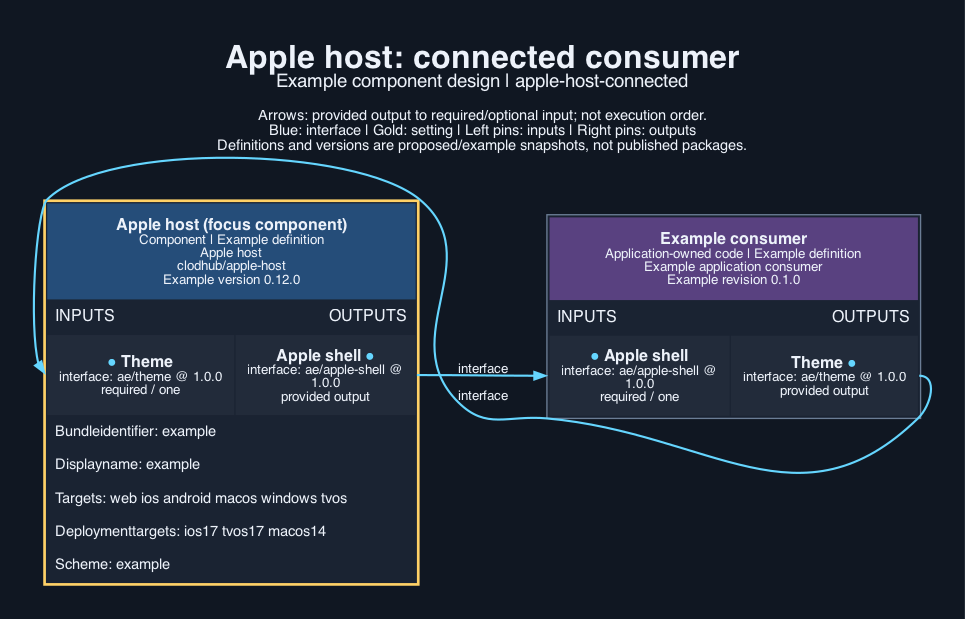
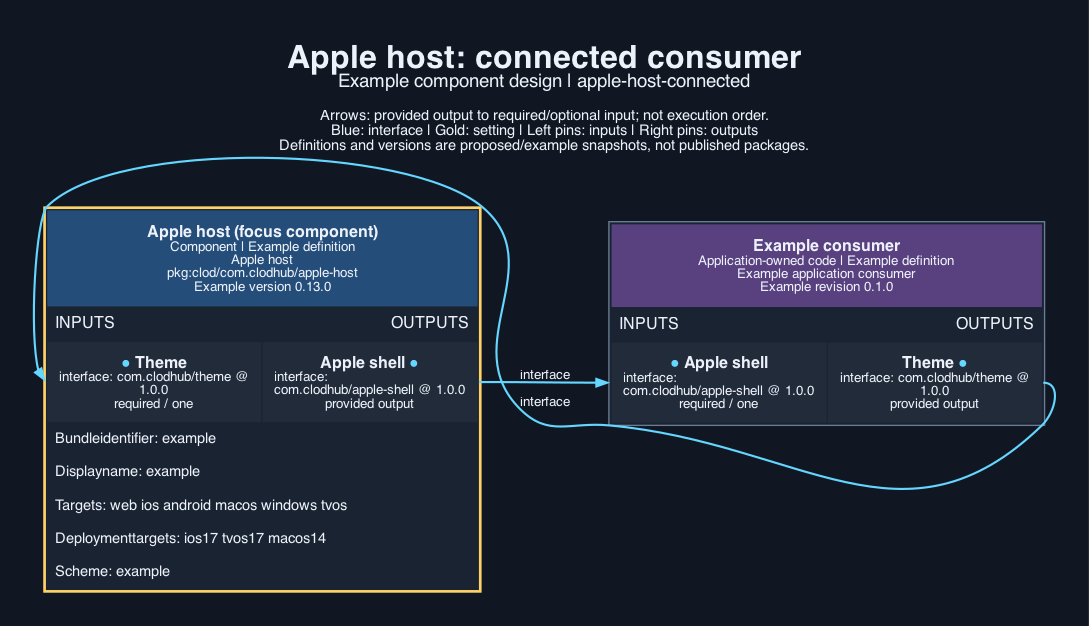
apple-host 0.13.0: package URL names, clod, com.clodhub interface types

diff --git a/tests/render.test.ts b/tests/render.test.ts
@@ -171,7 +171,7 @@ test("consumer writes the project files to disk", () => {
   writeApple(directory, { "Extra/File.txt": "x" });
 });
 
-test("settings.ts is rendered by aepm at install from every setting, each in a quoted string", { skip: !existsSync(new URL("../component.json", import.meta.url)) && "component.json is not in this copy" }, () => {
+test("settings.ts is rendered by clod at install from every setting, each in a quoted string", { skip: !existsSync(new URL("../component.json", import.meta.url)) && "component.json is not in this copy" }, () => {
   const manifest = JSON.parse(readFileSync(new URL("../component.json", import.meta.url), "utf8"));
   assert.deepEqual(manifest.artefacts.find((item: { source: string }) => item.source === "implementation/apple/settings.ts"),
     { source: "implementation/apple/settings.ts", destination: "components/apple-host/apple/settings.ts", template: true, executable: false });

diff --git a/implementation/apple/render.ts b/implementation/apple/render.ts
@@ -46,7 +46,7 @@ type PlatformName = (typeof PLATFORMS)[number];
 const DEFAULT_DEPLOYMENT: Record<PlatformName, string> = { ios: "17.0", tvos: "17.0", macos: "14.0" };
 const SERVER_ADDRESS_KEY = "ShellServerAddress";
 
-// The same grammars aepm applies to collected string settings.
+// The same grammars clod applies to collected string settings.
 const QUALIFIED = /^[a-z][a-z0-9]*(\.[a-z][a-z0-9]*)+$/;
 const IDENTIFIER = /^[A-Za-z][A-Za-z0-9_]{0,63}$/;
 const LABEL = /^[A-Za-z][A-Za-z0-9 -]{0,63}$/;

diff --git a/implementation/apple/settings.ts b/implementation/apple/settings.ts
@@ -1,6 +1,6 @@
 import type { AppleShellSettings } from "./render.ts";
 
-// Rendered by aepm at install from the apple-host settings; nothing else writes this file.
+// Rendered by clod at install from the apple-host settings; nothing else writes this file.
 export const appleHostSettings: AppleShellSettings = {
   bundleIdentifier: "{{bundleIdentifier}}",
   displayName: "{{displayName}}",

diff --git a/CONTRACT.md b/CONTRACT.md
@@ -21,7 +21,7 @@ The installer collects these settings. `bundleIdentifier` (required) is the appl
 - `implementation/apple/Sources/Platform.swift` -> `components/apple-host/apple/Sources/Platform.swift`
 - `implementation/apple/Sources/ShellSettings.swift` -> `components/apple-host/apple/Sources/ShellSettings.swift`
 - `implementation/apple/render.ts` -> `components/apple-host/apple/render.ts`
-- `implementation/apple/settings.ts` -> `components/apple-host/apple/settings.ts` (template: aepm renders `appleHostSettings` from the five settings)
+- `implementation/apple/settings.ts` -> `components/apple-host/apple/settings.ts` (template: clod renders `appleHostSettings` from the five settings)
 - `implementation/apple/templates/ExportOptions.plist.template` -> `components/apple-host/apple/templates/ExportOptions.plist.template`
 - `implementation/apple/templates/Info.plist.template` -> `components/apple-host/apple/templates/Info.plist.template`
 - `implementation/apple/templates/InfoTV.plist.template` -> `components/apple-host/apple/templates/InfoTV.plist.template`
@@ -50,10 +50,10 @@ Dependencies: none.
 `tools.lock.json` pins verification tools: node 26.5, python3 3.12, swiftc 6.4, xcrun 72, xcodegen 2.46. Licence wording remains deferred.
 
 ## Provided interfaces
-- `interfaces/apple-shell.json` defines `apple-shell` (ae/apple-shell) version 1.0.0 as an OpenRPC 1.3.2 document. Methods tagged `typescript` are the build-time functions of `apple/render.ts` (`renderApple`, `writeApple`, `validateSettings`, `parseTargets`, `parseDeploymentTargets`); methods tagged `swift` are the public Swift API (`ShellConfiguration.init`, `ApplicationShell.init`, `Platform.family`, `Platform.traits`, `PlatformTraits.traits(for:)`, `ShellSettings.current`, `ShellSettings.init` and the `View.shell...` modifiers). Parameters and results are JSON Schema 2020-12; Swift values with no JSON form (Color, View, closures) are described by name. `SettingsError` is listed where a setting breaks its grammar.
+- `interfaces/apple-shell.json` defines `apple-shell` (com.clodhub/apple-shell) version 1.0.0 as an OpenRPC 1.3.2 document. Methods tagged `typescript` are the build-time functions of `apple/render.ts` (`renderApple`, `writeApple`, `validateSettings`, `parseTargets`, `parseDeploymentTargets`); methods tagged `swift` are the public Swift API (`ShellConfiguration.init`, `ApplicationShell.init`, `Platform.family`, `Platform.traits`, `PlatformTraits.traits(for:)`, `ShellSettings.current`, `ShellSettings.init` and the `View.shell...` modifiers). Parameters and results are JSON Schema 2020-12; Swift values with no JSON form (Color, View, closures) are described by name. `SettingsError` is listed where a setting breaks its grammar.
 
 ## Required interfaces
-- `theme` (ae/theme) version 1.0.0, supplied by the recipe or application. `interfaces/required-theme.json` is a copy of the theme component's interface document; apple-host uses theme `ThemeSet.accent` for the shell tint.
+- `theme` (com.clodhub/theme) version 1.0.0, supplied by the recipe or application. `interfaces/required-theme.json` is a copy of the theme component's interface document; apple-host uses theme `ThemeSet.accent` for the shell tint.
 
 ## Integration
 In an installed application, `settings` is `appleHostSettings` from the rendered `apple/settings.ts`. Render the project with `renderApple(settings, options)` from `apple/render.ts`, which returns `{files, message}`, and write `files` with `writeApple` into the Apple project folder, then run `xcodegen generate`. When `files` is empty the targets named no Apple target and `message` says so. `options.componentSources` lists the `apple/Sources` folders of the other components compiled into the application; `options.packages` lists Swift packages. The application keeps its own sources under `<scheme>/Sources`, resources under `<scheme>/Resources` and the Apple TV images in `<scheme>TV/Assets.xcassets`. In the application's `@main App` return `ApplicationShell(ShellConfiguration(...)) { RootView() }`; ask `Platform.traits` for device differences and use `shellStatusBarHidden`, `shellNameInput`, `shellButtonStyle` and `shellExitCommand` where the API differs. `ShellSettings.current` reads the display name and server address that the generated project writes into Info.plist. `examples/consumer.ts` and `examples/Application.swift` show both halves.

diff --git a/INSTRUCTIONS.md b/INSTRUCTIONS.md
@@ -1,17 +1,17 @@
 # Apple host instructions
 
 ## For the agent
-Select `clodhub/apple-host` when the recipe's targets include any of ios, macos or tvos. Set `targets` to the recipe's client target list (`$answer` of the targets question, for example `web ios android macos windows tvos`); the component keeps the Apple ones (ios gives iPhone and iPad, macos gives Mac, tvos gives Apple TV) and ignores the rest. Connect the `theme` requirement so the application can pass its accent colour to `ShellConfiguration`. Set `bundleIdentifier`, `displayName`, `scheme` and optionally `deploymentTargets`.
+Select `pkg:clod/com.clodhub/apple-host` when the recipe's targets include any of ios, macos or tvos. Set `targets` to the recipe's client target list (`$answer` of the targets question, for example `web ios android macos windows tvos`); the component keeps the Apple ones (ios gives iPhone and iPad, macos gives Mac, tvos gives Apple TV) and ignores the rest. Connect the `theme` requirement so the application can pass its accent colour to `ShellConfiguration`. Set `bundleIdentifier`, `displayName`, `scheme` and optionally `deploymentTargets`.
 
-- Select package `clodhub/apple-host` version `0.12.0`.
+- Select package `pkg:clod/com.clodhub/apple-host` version `0.13.0`.
 - Settings to configure:
   - `bundleIdentifier` (string, qualified; required)
   - `displayName` (string, label; required)
   - `targets` (string, label; optional; default `web ios android macos windows tvos`)
   - `deploymentTargets` (string, label; optional; default `ios17 tvos17 macos14`)
   - `scheme` (string, identifier; required)
-- Connect the provided `apple-shell` (ae/apple-shell 1.0.0) to the consumer that needs it.
-- Supply `theme` (ae/theme 1.0.0) from the component that provides it.
+- Connect the provided `apple-shell` (com.clodhub/apple-shell 1.0.0) to the consumer that needs it.
+- Supply `theme` (com.clodhub/theme 1.0.0) from the component that provides it.
 - No accounts or keys are needed.
 
 ## For the developer
@@ -25,4 +25,4 @@ From the component directory:
 - `node --test tests/render.test.ts` (render, required-local; tools: node 26.5)
 - `python3 tests/native.py apple` (apple, platform; tools: python3 3.12, swiftc 6.4, xcrun 72)
 - `python3 tests/native.py project` (project, platform; tools: python3 3.12, node 26.5, xcodegen 2.46)
-- `python3 -m aepm review <digest> --store STORE --policy POLICY --trusted --allow-network` checks an archive fetched with `python3 -m aepm fetch clodhub/apple-host@VERSION --store STORE --from https://clodhub.com` and runs its suites.
+- `python3 -m clod review <digest> --store STORE --policy POLICY --trusted --allow-network` checks an archive fetched with `python3 -m clod fetch apple-host@VERSION --store STORE --from https://clodhub.com` and runs its suites.

diff --git a/SOURCE.md b/SOURCE.md
@@ -10,7 +10,7 @@ Reference revision: `19905b75dbea89fbfd424d67fe26c81aaed0e018`. Recipe paths are
 - `OurPoker/MacCatalyst.entitlements` lines 1-18 -> `implementation/apple/templates/MacCatalyst.entitlements`: copied verbatim.
 - `ExportOptions-tvos.plist` lines 1-12 and `ExportOptions-macos.plist` lines 1-13 -> `implementation/apple/templates/ExportOptions.plist.template`: one template, with the installer certificate line for Mac only and the bundle identifier as a token; `TEAM_ID` and `PROFILE_NAME` placeholders are kept. An iOS export file is added (`generated-platform`: no recipe counterpart; same keys as the tvOS file).
 - `OurPokerTV/Assets.xcassets/**/Contents.json` (13 files plus the catalogue root) -> `implementation/apple/templates/tv-assets/`: structure only; the PNG images are artwork and are left behind.
-- `implementation/apple/settings.ts` is new (`generated-platform`): the template aepm renders at install, so an installed application passes its settings to `renderApple`.
-- `implementation/apple/render.ts` is new (settings validation with the aepm grammars, target and deployment parsing, template filling, `renderApple`/`writeApple`; recipe target names ios, macos, tvos map to iphone, ipad, mac, tv, web, android, windows are ignored, `renderApple` returns `{files, message}`); `tests/apple/generate.ts` and `tests/native.py project` are new checks.
+- `implementation/apple/settings.ts` is new (`generated-platform`): the template clod renders at install, so an installed application passes its settings to `renderApple`.
+- `implementation/apple/render.ts` is new (settings validation with the clod grammars, target and deployment parsing, template filling, `renderApple`/`writeApple`; recipe target names ios, macos, tvos map to iphone, ipad, mac, tv, web, android, windows are ignored, `renderApple` returns `{files, message}`); `tests/apple/generate.ts` and `tests/native.py project` are new checks.
 
 Left behind: all screens, `Model.swift`, `TableModel.swift`, strings and localisation, sounds and art, `prepare-project.py` (Package.resolved copy), `sync-art.sh`, the tests under `OurPokerTests/`, `OurPokerUITests/` and `VerificationSupport/`, the app icon catalogue under `OurPoker/Resources/Assets.xcassets`.

diff --git a/visual/output/description.md b/visual/output/description.md
@@ -1,3 +1,3 @@
 # Apple host
 
-The apple-host component at version 0.12.0 provides ae/apple-shell version 1.0.0 to an illustrative application consumer, which in turn supplies ae/theme version 1.0.0. The 2 arrows each run from a named output to a required input of the same type and version. Setting values shown are placeholders and secrets appear only as references.
+The apple-host component at version 0.13.0 provides com.clodhub/apple-shell version 1.0.0 to an illustrative application consumer, which in turn supplies com.clodhub/theme version 1.0.0. The 2 arrows each run from a named output to a required input of the same type and version. Setting values shown are placeholders and secrets appear only as references.

diff --git a/.opencode/knowledge/workflow.md b/.opencode/knowledge/workflow.md
@@ -2,5 +2,5 @@
 
 Repository: `clodhub/apple-host`. Licence: `Apache-2.0` (`LICENCE`, `NOTICE`).
 Suite commands (from the package root): `node --test tests/render.test.ts`; `python3 tests/native.py apple`; `python3 tests/native.py project`.
-Review a fetched archive: `python3 -m aepm review <digest> --store STORE --policy POLICY --trusted --allow-network`.
+Review a fetched archive: `python3 -m clod review <digest> --store STORE --policy POLICY --trusted --allow-network`.
 Always run Python with `-B`; never write bytecode into the repository.
